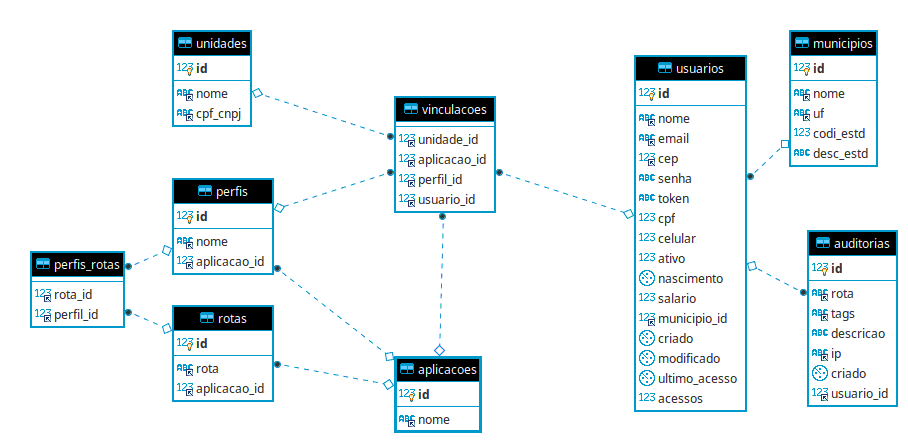
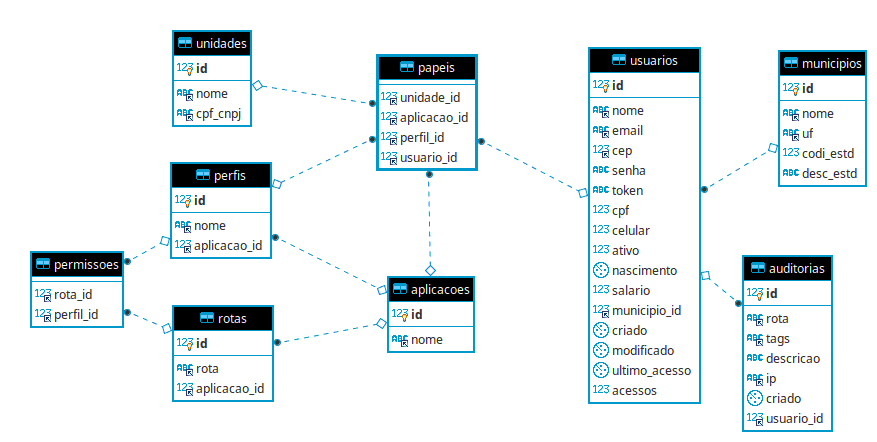
correção ao criar tabelas

diff --git a/modules/core/orm/behavior/crud.js b/modules/core/orm/behavior/crud.js
@@ -759,14 +759,11 @@ class Crud extends Behavior {
                     continue
                 }
                 if (!!! params.associations[Assoc].hasOne.tableRight) {
-                    throw new Error(__('O Parâmetro tableRight não foi informado na associação hasOne de '+Assoc+' de '+this.table))
+                    throw new Error(__('O Parâmetro tableRight não foi informado na associação hasOne de '+this.name+'.'+Assoc))
                 }
 
-                if (!!! params.associations[Assoc].hasOne.tableRight ) {
-                    params.associations[Assoc].hasOne.tableRight = assocHasOne.table
-                }
                 if (!!! params.associations[Assoc].hasOne.foreignKeyRight ) {
-                    params.associations[Assoc].hasOne.foreignKeyRight = assocHasOne.primaryKey
+                    throw new Error(__('O Parâmetro foreignKeyRight não foi informado na associação hasOne de '+this.name+'.'+Assoc))
                 }
             }
 
@@ -789,22 +786,27 @@ class Crud extends Behavior {
                     continue
                 }
                 if (!!! params.associations[Assoc].hasMany.tableRight) {
-                    throw new Error(__('O Parâmetro tableRight não foi informado nnnnnna associação '+Assoc+' de '+this.name))
+                    throw new Error(__('O Parâmetro tableRight não foi informado na associação hasMany '+this.name+'.'+Assoc))
                 }
                 if (!!! params.associations[Assoc].hasMany.foreignKeyRight) {
-                    throw new Error(__('O Parâmetro foreignKeyRight não foi informado na associação '+Assoc+' de '+this.name))
+                    throw new Error(__('O Parâmetro foreignKeyRight não foi informado na associação hasMany '+this.name+'.'+Assoc))
                 }
                 if (!!! params.associations[Assoc].hasMany.foreignKeyLeft) {
-                    throw new Error(__('O Parâmetro foreignKeyLeft não foi informado na associação '+Assoc+' de '+this.name))
+                    throw new Error(__('O Parâmetro foreignKeyLeft não foi informado na associação hasMany '+this.name+'.'+Assoc))
                 }
 
                 const tableBridge = params.associations[Assoc].hasMany.tableBridge
                 paramsHasmany['table'] = tableBridge
+
+                tableRight  = params.associations[Assoc].hasMany.tableRight
                 fieldLeft   = params.associations[Assoc].hasMany.foreignKeyBridgeRight
                 fieldRight  = params.associations[Assoc].hasMany.foreignKeyBridgeRight
                 fieldBridge = params.associations[Assoc].hasMany.foreignKeyBridgeLeft
 
                 if (allTables.indexOf(tableRight) < 0) {
+                    if (this.debug) {
+                        console.log(__('A tabela %'+tableRight+'% já foi instalada!'))
+                    }
                     continue
                 }
 
@@ -830,7 +832,6 @@ class Crud extends Behavior {
                 paramsHasmany.associations[Assoc]['hasOne']['foreignKeyLeft'] = fieldLeft
                 paramsHasmany.associations[Assoc]['hasOne']['foreignKeyRight']= params.associations[Assoc].hasMany.foreignKeyRight || 'id'
                 paramsHasmany.associations[Assoc]['hasOne']['tableRight']     = tableRight
-
             }
 
             if (Object.keys(paramsHasmany.fields).length) {

diff --git a/modules/mac/orm/table/usuarios.js b/modules/mac/orm/table/usuarios.js
@@ -21,28 +21,40 @@ class Usuarios extends Table {
         this.associations = {
             Municipio: {
                 hasOne: {
-                    foreignKeyLeft: 'municipio_id'
+                    foreignKeyLeft: 'municipio_id',
+                    tableRight: 'municipios',
+                    foreignKeyRight: 'id'
                 }
             },
             Perfis: {
-                hasMany: { 
-                    tableBridge: 'vinculacoes',
+                hasMany: {
+                    foreignKeyLeft: 'id',
+                    tableBridge: 'papeis',
                     foreignKeyBridgeLeft: 'usuario_id', 
-                    foreignKeyBridgeRight: 'perfil_id'
+                    foreignKeyBridgeRight: 'perfil_id',
+                    tableRight: 'perfis',
+                    foreignKeyRight: 'id',
+
                 }
             },
             Unidades: {
-                hasMany: { 
-                    tableBridge: 'vinculacoes',
+                hasMany: {
+                    foreignKeyLeft: 'id',
+                    tableBridge: 'papeis',
                     foreignKeyBridgeLeft: 'usuario_id', 
-                    foreignKeyBridgeRight: 'unidade_id'
+                    foreignKeyBridgeRight: 'unidade_id',
+                    tableRight: 'perfis',
+                    foreignKeyRight: 'id'
                 }
             },
             Aplicacoes: {
                 hasMany: { 
-                    tableBridge: 'vinculacoes',
+                    foreignKeyLeft: 'id',
+                    tableBridge: 'papeis',
                     foreignKeyBridgeLeft: 'usuario_id', 
-                    foreignKeyBridgeRight: 'aplicacao_id'
+                    foreignKeyBridgeRight: 'aplicacao_id',
+                    tableRight: 'aplicacoes',
+                    foreignKeyRight: 'id'
                 }
             }
         }

diff --git a/modules/mac/orm/table/unidades.js b/modules/mac/orm/table/unidades.js
@@ -21,21 +21,30 @@ class Unidades extends Table {
         this.associations = {
             Aplicacoes: {
                 hasMany: {
-                    tableBridge: 'vinculacoes',
+                    foreignKeyLeft: 'id',
+                    tableRight: 'aplicacoes',
+                    foreignKeyRight: 'id',
+                    tableBridge: 'papeis',
                     foreignKeyBridgeLeft: 'unidade_id', 
                     foreignKeyBridgeRight: 'aplicacao_id'
                 }
             },
             Perfis: {
                 hasMany: { 
-                    tableBridge: 'vinculacoes',
+                    foreignKeyLeft: 'id',
+                    tableRight: 'perfis',
+                    foreignKeyRight: 'id',
+                    tableBridge: 'papeis',
                     foreignKeyBridgeLeft: 'unidade_id', 
                     foreignKeyBridgeRight: 'perfil_id'
                 }
             },
             Usuarios: {
                 hasMany: { 
-                    tableBridge: 'vinculacoes',
+                    foreignKeyLeft: 'id',
+                    tableRight: 'usuarios',
+                    foreignKeyRight: 'id',
+                    tableBridge: 'papeis',
                     foreignKeyBridgeLeft: 'unidade_id', 
                     foreignKeyBridgeRight: 'usuario_id'
                 }

diff --git a/modules/mac/orm/table/perfis.js b/modules/mac/orm/table/perfis.js
@@ -20,22 +20,19 @@ class Perfis extends Table {
         this.associations = {
             Aplicacao: {
                 hasOne: {
-                    foreignKeyLeft: 'aplicacao_id'
-                }
-            },
-            Usuarios: {
-                hasMany: { 
-                    tableBridge: 'vinculacoes',
-                    foreignKeyBridgeLeft: 'perfil_id', 
-                    foreignKeyBridgeRight: 'usuario_id'
+                    foreignKeyLeft: 'aplicacao_id',
+                    tableRight: 'aplicacoes',
+                    foreignKeyRight: 'id'
                 }
             },
             Rotas: {
-                hasMany: { 
-                    tableBridge: 'perfis_rotas',
+                hasMany: {
+                    foreignKeyLeft: 'id',
+                    tableBridge: 'permissoes',
                     foreignKeyBridgeLeft: 'perfil_id', 
-                    tableRight: 'perfis',
-                    foreignKeyBridgeRight: 'rota_id'
+                    foreignKeyBridgeRight: 'rota_id',
+                    tableRight: 'rotas',
+                    foreignKeyRight: 'id'
                 }
             }
         }

diff --git a/modules/mac/orm/table/rotas.js b/modules/mac/orm/table/rotas.js
@@ -20,14 +20,19 @@ class Rotas extends Table {
         this.associations = {
             Aplicacoes: {
                 hasOne: {
-                    foreignKeyLeft:         'aplicacao_id',
+                    foreignKeyLeft: 'aplicacao_id',
+                    tableRight: 'aplicacoes',
+                    foreignKeyRight: 'id'
                 }
             },
             Perfis: {
                 hasMany: {
-                    tableBridge:            'perfis_rotas', 
-                    foreignKeyBridgeLeft:   'rota_id', 
-                    foreignKeyBridgeRight:  'perfil_id'
+                    foreignKeyLeft: 'id',
+                    tableBridge: 'permissoes', 
+                    foreignKeyBridgeLeft: 'rota_id', 
+                    foreignKeyBridgeRight: 'perfil_id',
+                    tableRight: 'perfis',
+                    foreignKeyRight: 'id'
                 }
             },
         }

diff --git a/modules/mac/orm/table/aplicacoes.js b/modules/mac/orm/table/aplicacoes.js
@@ -22,11 +22,15 @@ class Aplicacoes extends Table {
             Rotas: {
                 hasMany: {
                     foreignKeyLeft:         'id',
-                    tableBridge:            'aplicacoes_rotas', 
-                    foreignKeyBridgeLeft:   'aplicacao_id', 
-                    foreignKeyBridgeRight:  'rota_id',
-                    foreignKeyRight:        'id',
-                    tableRight:             'rotas'
+                    tableRight:             'rotas',
+                    foreignKeyRight:        'aplicacao_id'
+                }
+            },
+            Perfis: {
+                hasMany: {
+                    foreignKeyLeft:         'id',
+                    tableRight:             'perfis',
+                    foreignKeyRight:        'aplicacao_id'
                 }
             }
         }

diff --git a/modules/mac/rotas/instalacao.js b/modules/mac/rotas/instalacao.js
@@ -82,10 +82,10 @@ module.exports = app => {
 
             // excluindo tudo antes
             if (dropAll && configEnv.debug) {
-                if (! await conexao.query("DROP TABLE IF EXISTS vinculacoes") ) {
+                if (! await conexao.query("DROP TABLE IF EXISTS papeis") ) {
                     throw new Error('07 - '+__('Erro ao tentar excluir a tablela %vinculacoes%!'))
                 }
-                if (! await conexao.query("DROP TABLE IF EXISTS perfis_rotas") ) {
+                if (! await conexao.query("DROP TABLE IF EXISTS permissoes") ) {
                     throw new Error('08 - '+__('Erro ao tentar excluira a tablela %perfis_rotas%!'))
                 }
                 if (! await conexao.query("DROP TABLE IF EXISTS rotas") ) {

diff --git a/modules/mac/orm/table/auditorias.js b/modules/mac/orm/table/auditorias.js
@@ -21,7 +21,9 @@ class Auditorias extends Table {
         this.associations = {
             Usuarios: {
                 hasOne: {
-                    foreignKeyLeft: 'usuario_id'
+                    foreignKeyLeft: 'usuario_id',
+                    tableRight: 'usuarios',
+                    foreignKeyRight: 'id'
                 }
             }
         }

diff --git a/modules/mac/orm/table/municipios.js b/modules/mac/orm/table/municipios.js
@@ -20,6 +20,7 @@ class Municipios extends Table {
         this.associations = {
             Usuarios: {
                 hasMany: {
+                    foreignKeyLeft: 'id',
                     tableRight: 'usuarios',
                     foreignKeyRight: 'municipio_id'
                 }

diff --git a/config/config_default.js b/config/config_default.js
@@ -9,7 +9,7 @@
  * Mantém as configurações da API
  */
 module.exports = {
-  "language": "en",
+  "language": "ptBR",
   "versao": "0.7",
   "sistema": "cakeNode",
   "codigo_sistema": 0,
